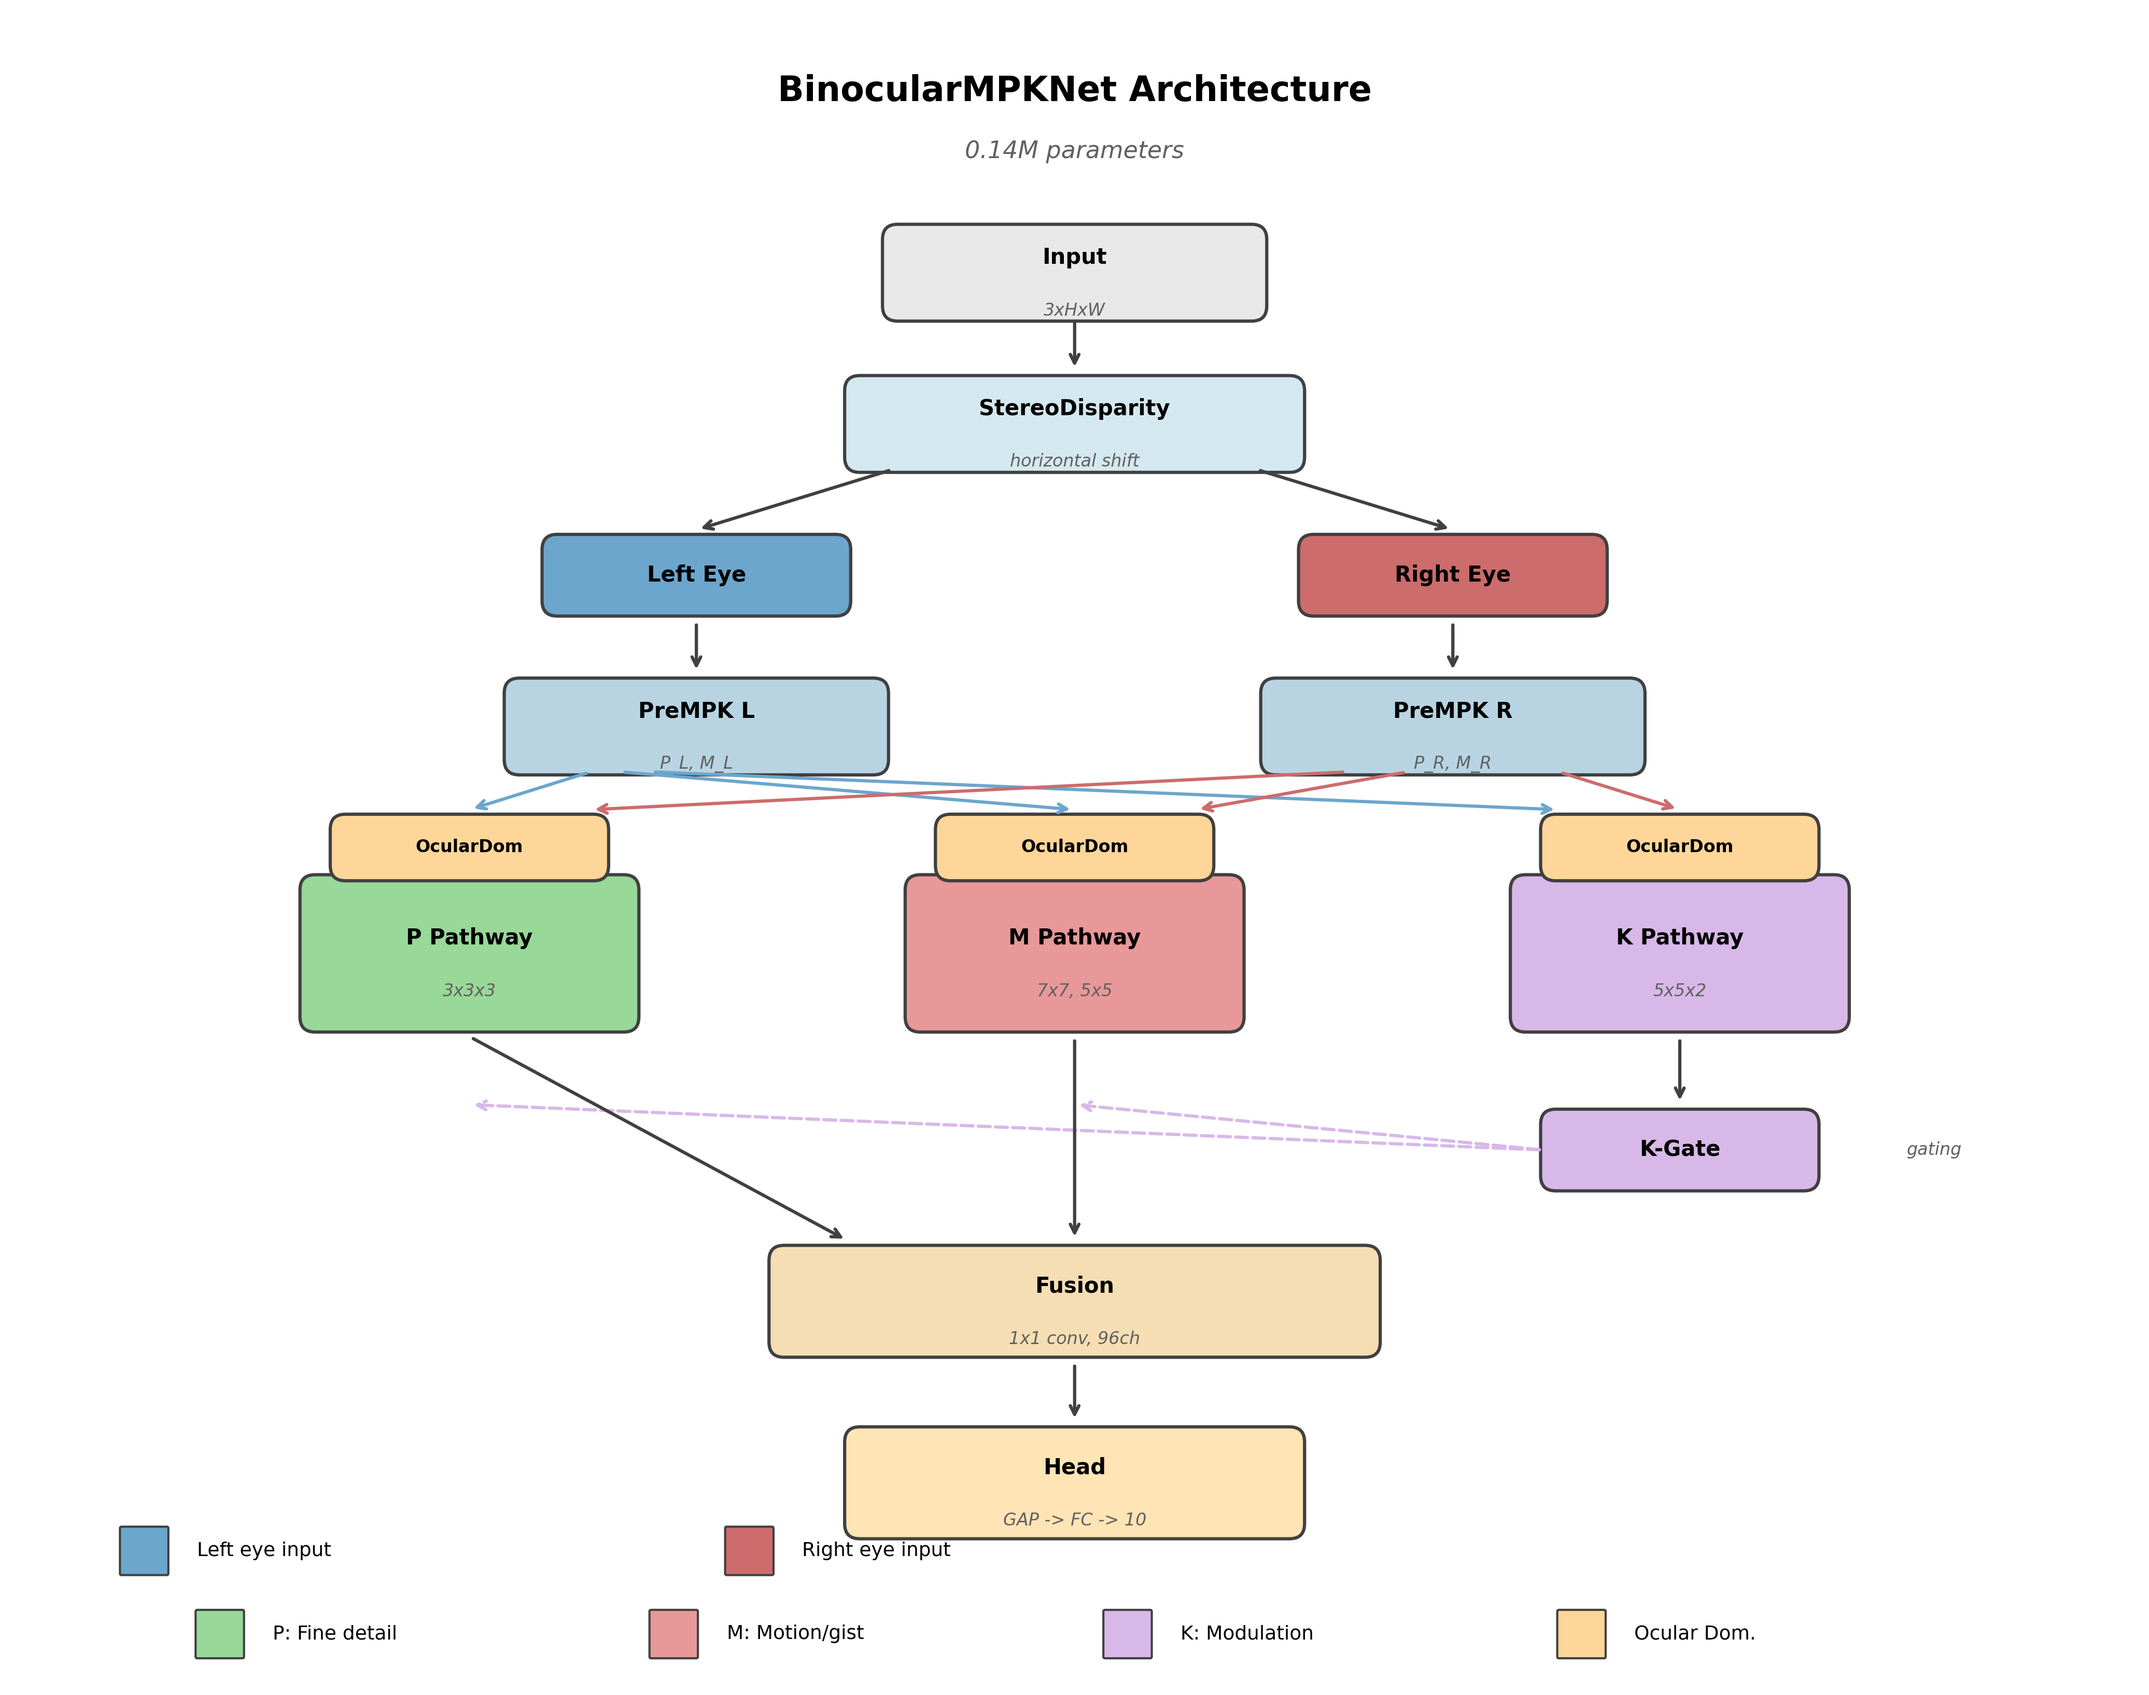
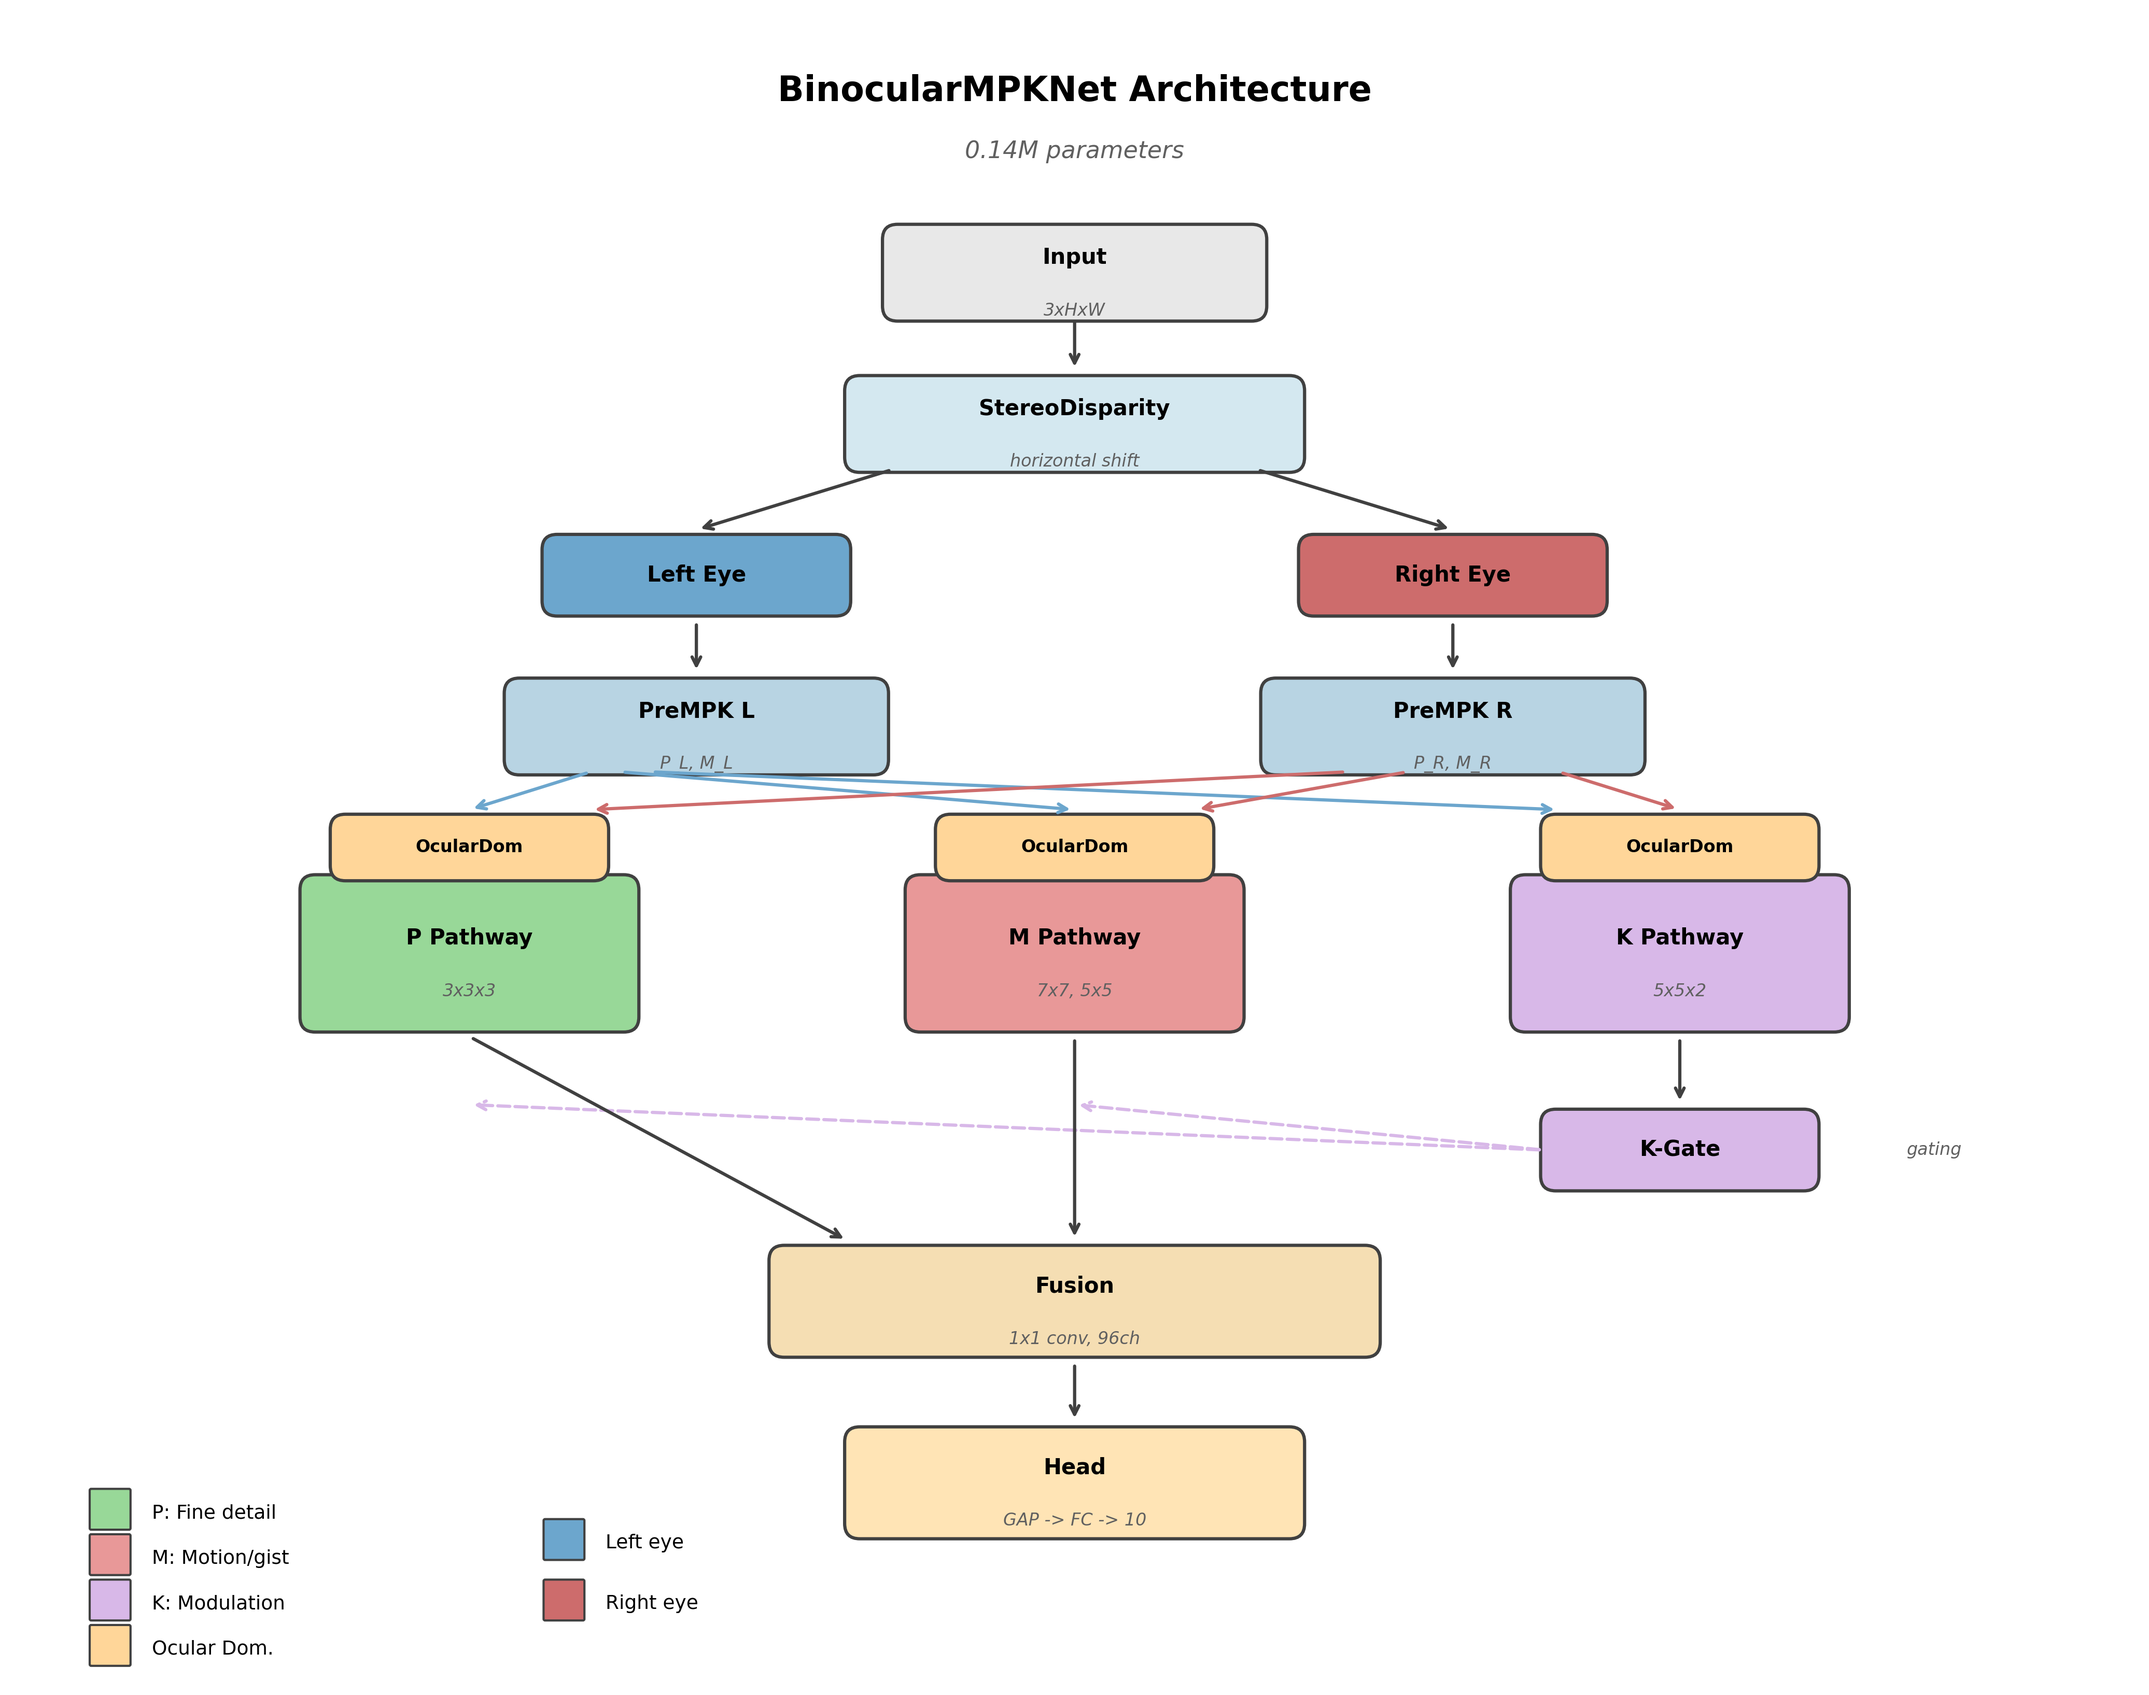
Align binocular figure legend on left side
🤖 Generated with [Claude Code](https://claude.com/claude-code)

diff --git a/generate_binocular_figure.py b/generate_binocular_figure.py
@@ -121,33 +121,33 @@ draw_arrow(ax, (7, 4.25), (7, 2.9))
 draw_box(ax, 7, 1.3, 3, 0.7, colors['head'], 'Head', 'GAP -> FC -> 10')
 draw_arrow(ax, (7, 2.1), (7, 1.7))
 
-# Legend
-legend_y = 0.3
+# Legend - aligned on left
+legend_x = 0.5
 legend_items = [
-    (1.5, 'P: Fine detail', colors['parvo']),
-    (4.5, 'M: Motion/gist', colors['magno']),
-    (7.5, 'K: Modulation', colors['konio']),
-    (10.5, 'Ocular Dom.', colors['ocular']),
+    (1.1, 'P: Fine detail', colors['parvo']),
+    (0.8, 'M: Motion/gist', colors['magno']),
+    (0.5, 'K: Modulation', colors['konio']),
+    (0.2, 'Ocular Dom.', colors['ocular']),
 ]
-for x, label, color in legend_items:
-    rect = FancyBboxPatch((x - 0.3, legend_y - 0.15), 0.3, 0.3,
+for y, label, color in legend_items:
+    rect = FancyBboxPatch((legend_x, y - 0.1), 0.25, 0.25,
                           boxstyle="round,pad=0.01", facecolor=color,
                           edgecolor='#404040', linewidth=1)
     ax.add_patch(rect)
-    ax.text(x + 0.2, legend_y, label, ha='left', va='center', fontsize=9)
+    ax.text(legend_x + 0.4, y, label, ha='left', va='center', fontsize=9)
 
-# Eye color legend
-rect_L = FancyBboxPatch((0.7, 0.7), 0.3, 0.3,
+# Eye color legend - stacked below
+rect_L = FancyBboxPatch((3.5, 0.8), 0.25, 0.25,
                         boxstyle="round,pad=0.01", facecolor=colors['left_eye'],
                         edgecolor='#404040', linewidth=1)
 ax.add_patch(rect_L)
-ax.text(1.2, 0.85, 'Left eye input', ha='left', va='center', fontsize=9)
+ax.text(3.9, 0.9, 'Left eye', ha='left', va='center', fontsize=9)
 
-rect_R = FancyBboxPatch((4.7, 0.7), 0.3, 0.3,
+rect_R = FancyBboxPatch((3.5, 0.4), 0.25, 0.25,
                         boxstyle="round,pad=0.01", facecolor=colors['right_eye'],
                         edgecolor='#404040', linewidth=1)
 ax.add_patch(rect_R)
-ax.text(5.2, 0.85, 'Right eye input', ha='left', va='center', fontsize=9)
+ax.text(3.9, 0.5, 'Right eye', ha='left', va='center', fontsize=9)
 
 # Add annotation
 ax.text(12.5, 3.5, 'gating', ha='left', va='center',
